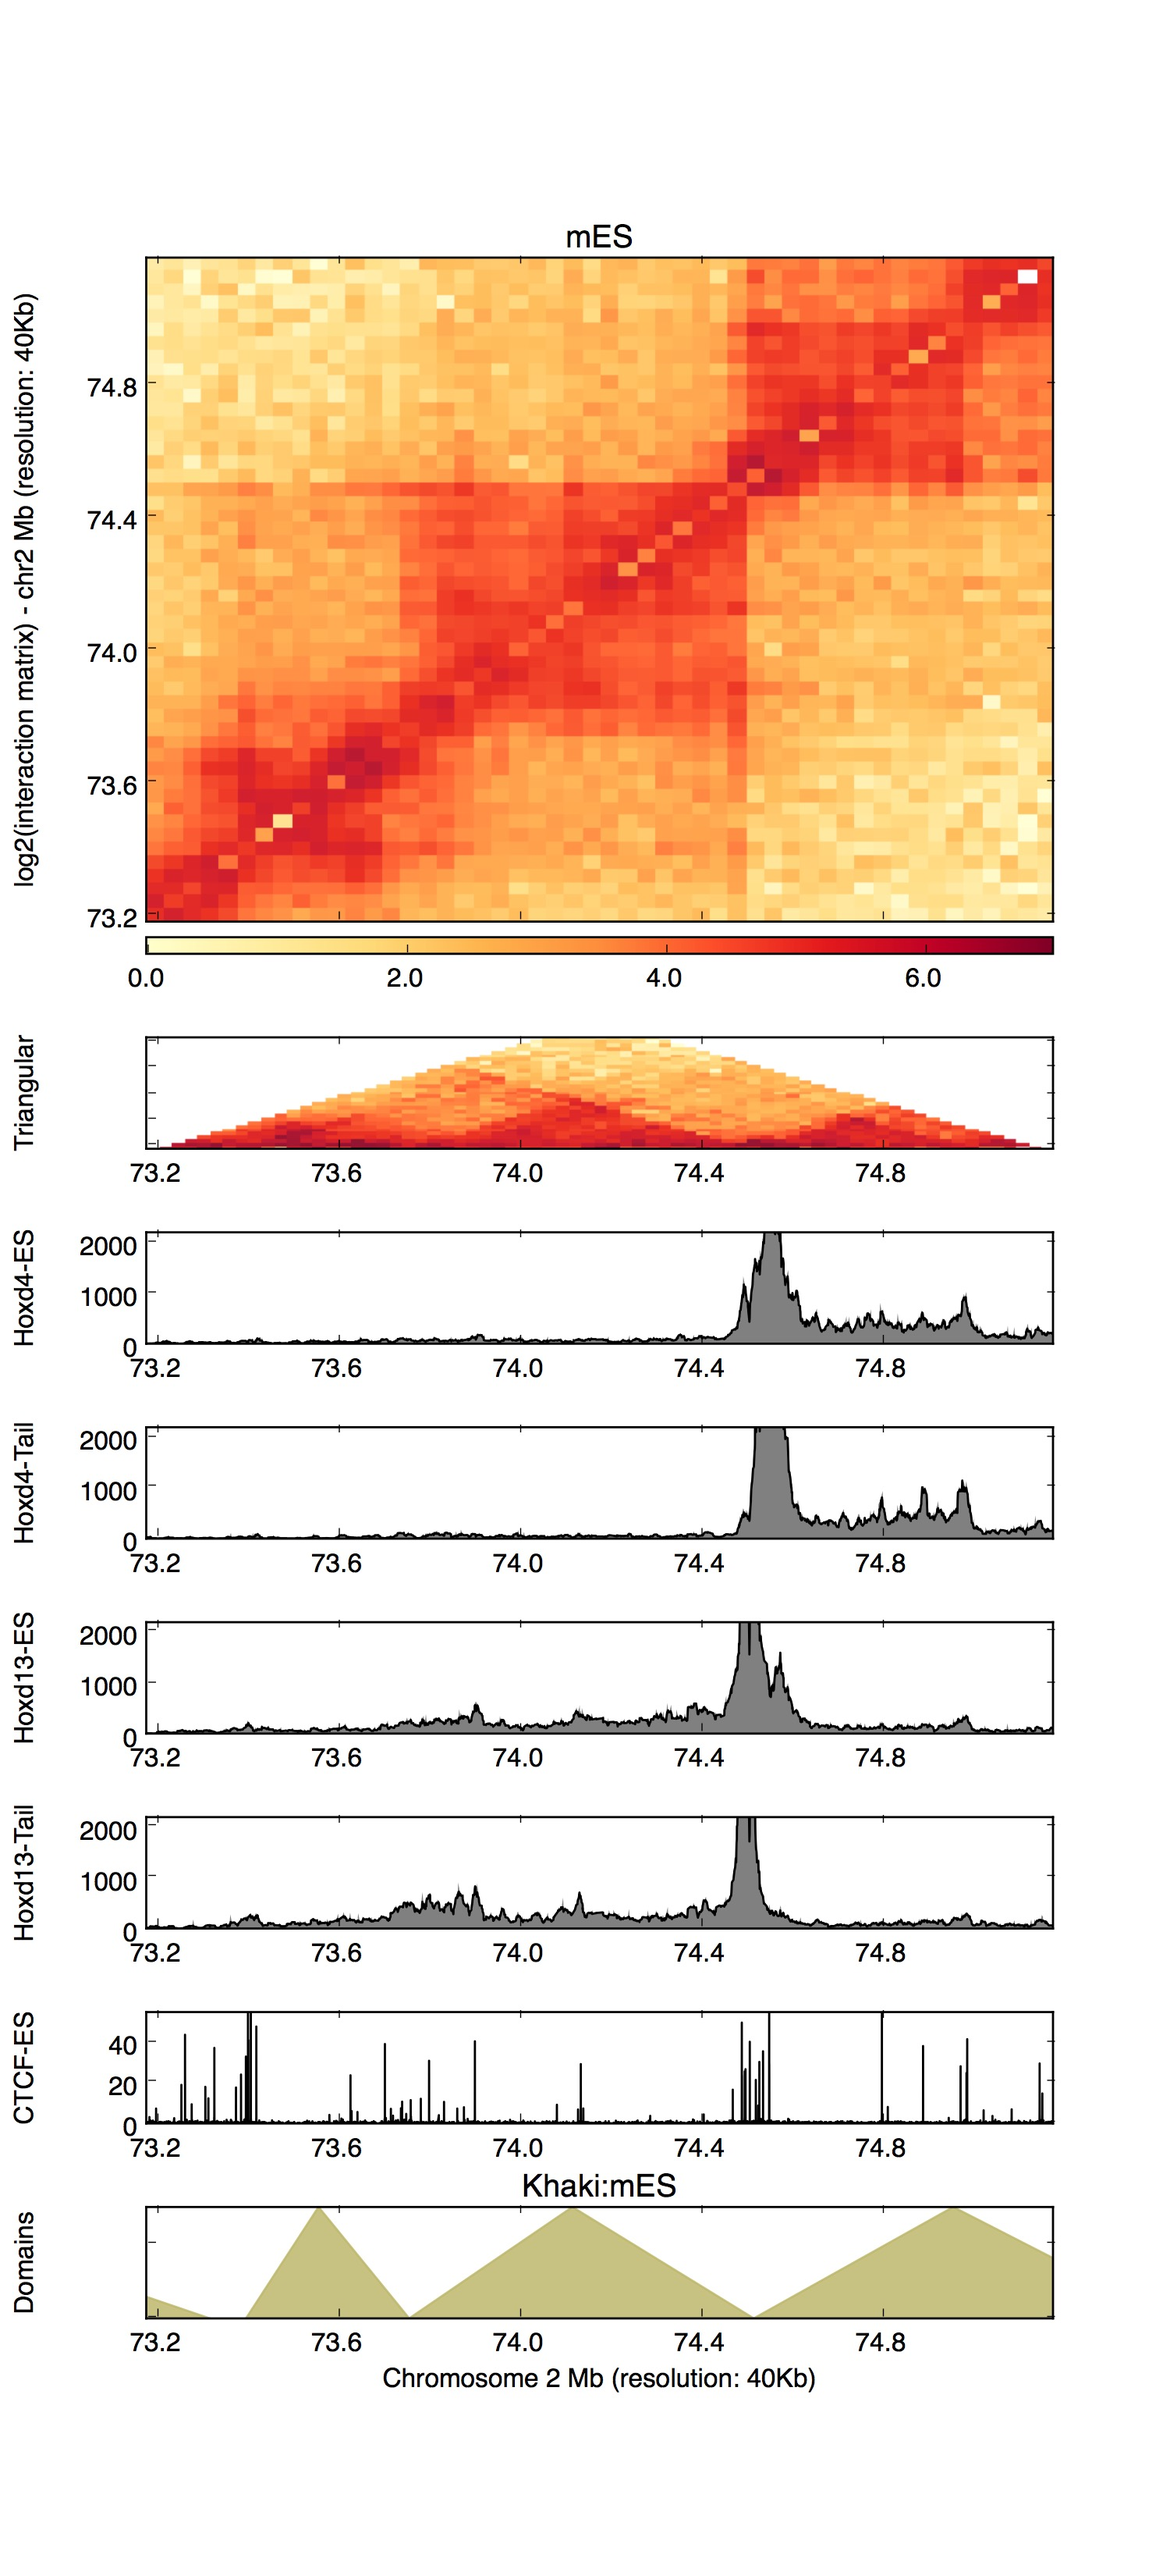
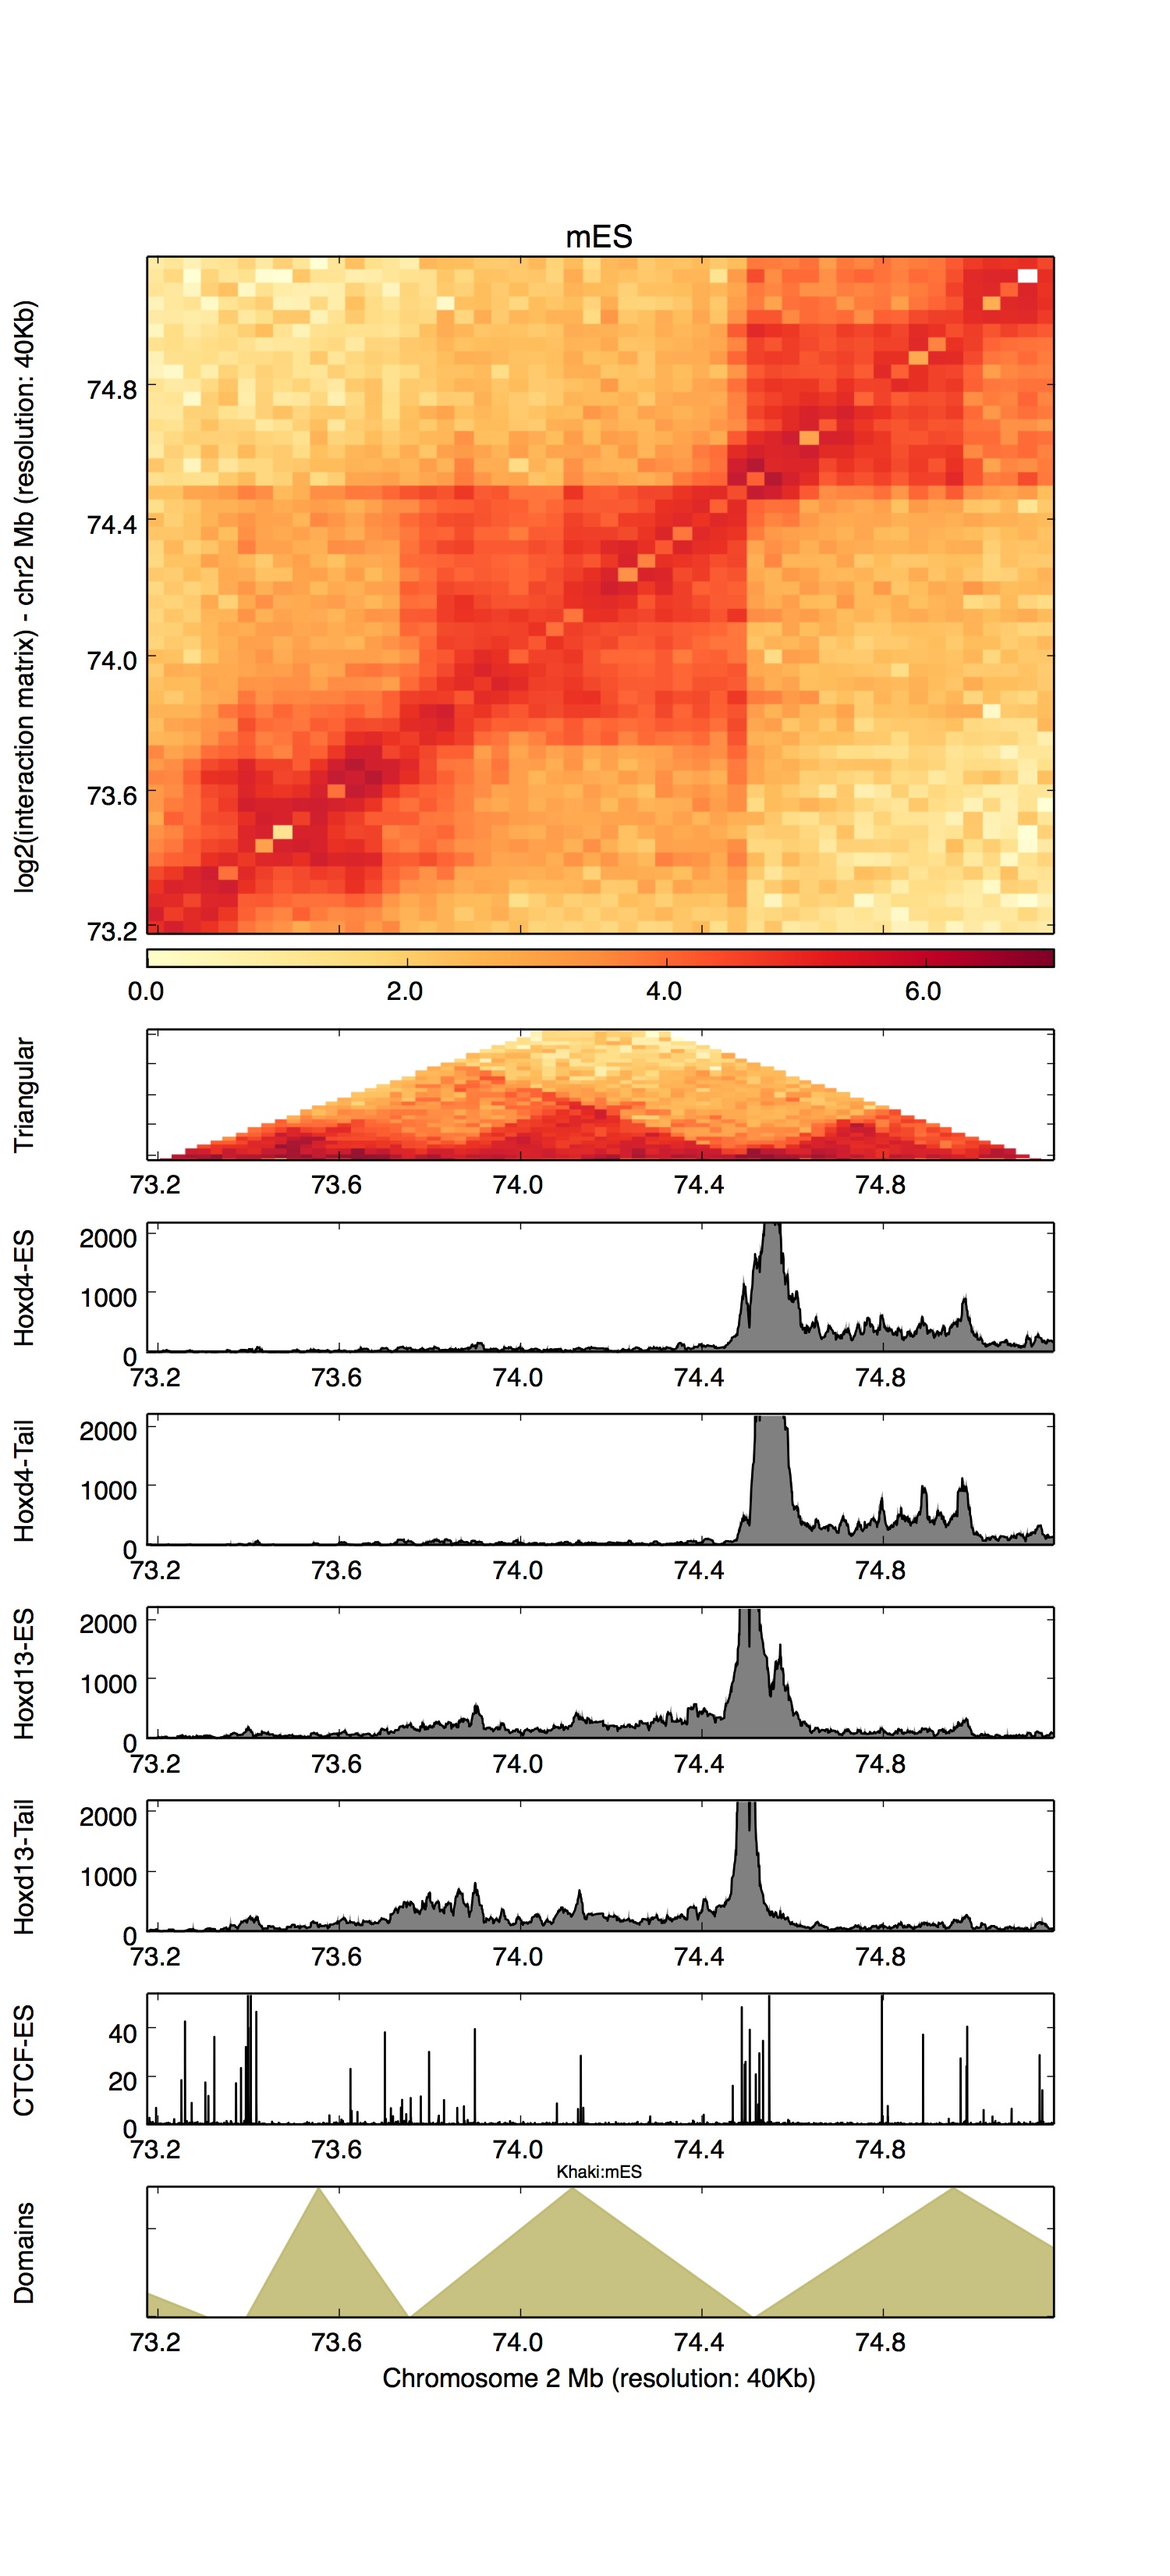
Update

diff --git a/HiCPlotter.py b/HiCPlotter.py
@@ -341,7 +341,7 @@ def HiCplotter(files=[],names=[],resolution=100000,chromosome='',output='',histo
 	if len(histograms)>0: numOfrows+=len(histograms[0].split(','))
 	if len(tilePlots)>0: numOfrows+=len(tilePlots[0].split(','))
 	if len(arcPlots)>0: numOfrows+=len(arcPlots[0].split(','))
-	if plotCustomDomains or plotPublishedTadDomains: numOfrows+=1
+	if plotCustomDomains or plotPublishedTadDomains and not plotTadDomains: numOfrows+=1
 	
 	fig=plt.figure(figsize=(numOfcols*5+2.5, numOfrows+numOfrows/2+0.5), facecolor='w', edgecolor='w')
 	fig.set_size_inches(numOfcols*5+2.5, numOfrows+numOfrows/2+0.5)
@@ -726,7 +726,7 @@ def HiCplotter(files=[],names=[],resolution=100000,chromosome='',output='',histo
 		
 		'''TAD plotings - custom domains'''
 		
-		if plotCustomDomains:
+		if plotCustomDomains and not plotTadDomains:
 			x_comps,x_comps2,y_comps,colors,texts = read_bedGraph(customDomainsFile[exp],resolution,chromosome)
 			ax5 = plt.subplot2grid((numOfrows,4*len(files)), (rowcounter, exp*4), rowspan=1,colspan=4,sharex=ax1)
 			
@@ -764,7 +764,7 @@ def HiCplotter(files=[],names=[],resolution=100000,chromosome='',output='',histo
 								p = Rectangle((Tstart,0.5), (Tend-Tstart), 0.15, color='steelblue',alpha=0.75)
 							else:
 								pts= np.array([[Tstart,0],[Tend,0],[floor((Tstart+Tend)/2),0.4]])
-								p = Polygon(pts, closed=True,color='steelblue',alpha=0.5)
+								p = Polygon(pts, closed=True,color='steelblue',alpha=0.4)
 							ax5.add_patch(p)
 					ax5.set_title('Khaki:%s - Blue:hES - Red:IMR90' % (name),fontsize=8)
 				else:
@@ -790,7 +790,7 @@ def HiCplotter(files=[],names=[],resolution=100000,chromosome='',output='',histo
 								p = Rectangle((Tstart,0.5), (Tend-Tstart), 0.15, color='steelblue',alpha=0.75)
 							else:
 								pts= np.array([[Tstart,0],[Tend,0],[floor((Tstart+Tend)/2),0.4]])
-								p = Polygon(pts, closed=True,color='steelblue',alpha=0.5)
+								p = Polygon(pts, closed=True,color='steelblue',alpha=0.4)
 							ax5.add_patch(p)
 					ax5.set_title('Khaki:%s - Red:mES - Blue:Cortex' % (name),fontsize=8)
 			else:
@@ -805,7 +805,7 @@ def HiCplotter(files=[],names=[],resolution=100000,chromosome='',output='',histo
 			else: ax5.set_xlabel('Chromosome %s (Genomic Bins)' % (schr))
 			ax5.set_ylim(0,0.75)
 			rowcounter+=1
-		elif plotPublishedTadDomains:
+		elif plotPublishedTadDomains and not plotTadDomains:
 			ax5 = plt.subplot2grid((numOfrows,4*len(files)), (rowcounter, exp*4), rowspan=1,colspan=4,sharex=ax1)
 			if publishedTadDomainOrganism:
 				fone=open('data/IMR90_domains_hg19.bed','r')
@@ -830,7 +830,7 @@ def HiCplotter(files=[],names=[],resolution=100000,chromosome='',output='',histo
 							p = Rectangle((Tstart,0.4), (Tend-Tstart), 0.15, color='steelblue',alpha=0.75)
 						else:
 							pts= np.array([[Tstart,0],[Tend,0],[floor((Tstart+Tend)/2),0.4]])
-							p = Polygon(pts, closed=True,color='steelblue',alpha=0.5)
+							p = Polygon(pts, closed=True,color='steelblue',alpha=0.4)
 						ax5.add_patch(p)
 				ax5.set_title('Blue:hES - Red:IMR90',fontsize=8)
 			else:
@@ -856,7 +856,7 @@ def HiCplotter(files=[],names=[],resolution=100000,chromosome='',output='',histo
 							p = Rectangle((Tstart,0.4), (Tend-Tstart), 0.15, color='steelblue',alpha=0.75)
 						else:
 							pts= np.array([[Tstart,0],[Tend,0],[floor((Tstart+Tend)/2),0.4]])
-							p = Polygon(pts, closed=True,color='steelblue',alpha=0.5)
+							p = Polygon(pts, closed=True,color='steelblue',alpha=0.4)
 						ax5.add_patch(p)
 				ax5.set_title('Blue:mES - Red:Cortex',fontsize=8)
 				

diff --git a/README.md b/README.md
@@ -4,7 +4,7 @@
 
 HiCPlotter is a Python data visualization tool for integrating different data types with interaction matrixes. For more on 5C or HiC, please check:  <a class="reference external" href="http://www.nature.com/nrg/journal/v14/n6/full/nrg3454.html"> Dekker et al. 2013</a>.
 
-_HiCPlotter is designed by Kadir Caner Akdemir (kcakedemir at mdanderson dot org) in Lynda Chin's Lab at the University of Texas MD Anderson Cancer Center, Houston, TX, USA._
+_HiCPlotter is designed by Kadir Caner Akdemir (kcakedemir at mdanderson dot org / find me on [Twitter](https://twitter.com/canerakdemir)) in Lynda Chin's Lab at the University of Texas MD Anderson Cancer Center, Houston, TX, USA._
 
 # Requirements:
 
